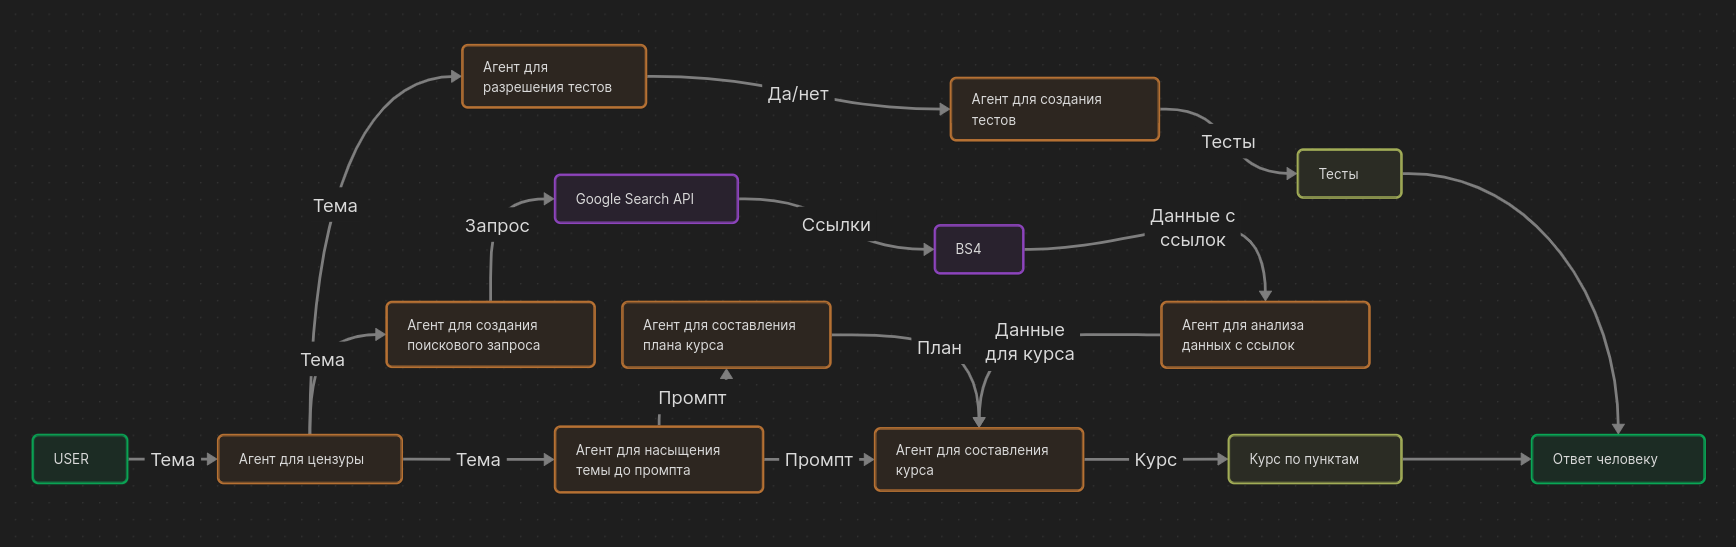
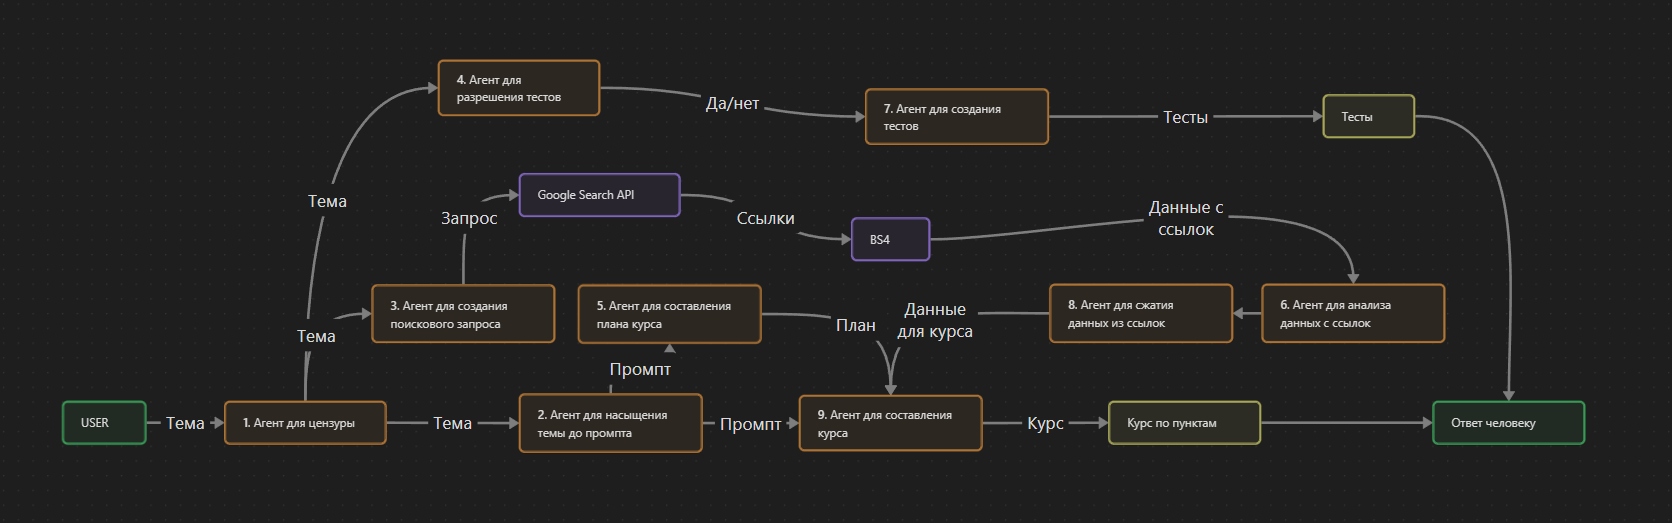
Поменял Readme.md + app.ai_core + чуток поменял роуты

diff --git a/app/ai_core/censor_agent.py b/app/ai_core/censor_agent.py
@@ -1,11 +1,12 @@
 from app.mistral_ai_initializer import mistral_ai_initializer
 
 
-def censor(theme_from_user: str) -> str:
+def censor(theme_from_user: str, desires: str = None) -> str:
     """Функция для цензуры темы пользователя.
 
     Args:
         theme_from_user (str): Тема пользователя
+        desires (str, optional): Пожелания пользователя. Defaults to None.
 
     Returns:
         str: Dict в виде str {"data": True/False(с темой хорошо/плохо)}
@@ -20,10 +21,13 @@ def censor(theme_from_user: str) -> str:
         "data": False
     }
     """
-    prompt = f"""Привет! Ты агент-цензор. Твоя задача проверять тему пользователя. Тема должна быть не должна быть
+    prompt = f"""Привет! Ты агент-цензор. Твоя задача проверять тему пользователя и его пожелания. Тема и пожелания не
+    должны быть
     связана с 18+ контентом, правительством, религией, межнациональной рознью, опасными для жизни
-    человека действиями, химикатами и т.п. Если тема никак не связана с перечисленным, то ты пропускаешь ее далее,
-    иначе - не пропускаешь. Тема пользователя: {theme_from_user} Пример твоего ответа: {json_example}"""
+    человека действиями, химикатами и т.п. Если тема и пожелания никак не связана с перечисленным, то ты пропускаешь ее
+    далее,
+    иначе - не пропускаешь. Тема пользователя: {theme_from_user}. Пожелания пользователя: {desires} Пример твоего
+    ответа: {json_example}"""
     client = mistral_ai_initializer()
     response = client.message(
         messages=[

diff --git a/app/ai_core/prompt_by_theme_agent.py b/app/ai_core/prompt_by_theme_agent.py
@@ -1,21 +1,24 @@
 from app.mistral_ai_initializer import mistral_ai_initializer
 
 
-def cool_prompt(users_theme: str) -> str:
+def cool_prompt(users_theme: str, desires: str = None) -> str:
     """Функция для обогащения темы юзера до промпта
 
     Args:
         users_theme (str): Тема пользователя
+        desires (str, optional): Пожелания пользователя. Defaults to None.
 
     Returns:
         str: Промпт
     """
     prompt = f"""Привет! Ты составитель промптов для LLM. Промпт нужно составить с учетом на то, что LLM будет создавать
-    курсы для обучения по заданной тебе теме. Твоя задача по теме, которую тебе говорит пользователь, составить промпт
+    курсы для обучения по заданной тебе теме. Твоя задача по теме и пожеланиям, которые тебе говорит пользователь,
+    составить промпт
     и только промпт. Не создавай плана(нумераций), пояснений, примеров в этой сфере и т.п. Обязательно в промпте укажи
     роль для LLM в
     зависимости от темы. Ни в коем случае не назначай практические задания! Этим занимается другой агент.
-    Тема пользователя: {users_theme}. Не используй md в своем ответе, ты пишешь для LLM."""
+    Тема пользователя: {users_theme}. Пожелания пользователя: {desires} Не используй md в своем ответе, ты пишешь для
+    LLM."""
     client = mistral_ai_initializer()
     result = client.message(
         messages=[

diff --git a/app/ai_core/analyzer_agent.py b/app/ai_core/analyzer_agent.py
@@ -1,0 +1,40 @@
+import json
+
+from app.mistral_ai_initializer import mistral_ai_initializer
+
+
+def analyze(data_from_internet: str, theme_of_course: str, plan: list) -> dict:
+    """Функция для анализа данных из интернета на нужность по плану.
+
+    Args:
+        data_from_internet (str): Данные, желательно из одной статьи
+        theme_of_course (str): Тема курса
+        plan (list): План курса
+
+    Returns:
+        dict: {"data_is_useful": True/False}
+    """
+    json_example = """
+    {
+        "data_is_useful": True/False # в зависимости от твоего решения(True, если полезна, False - иначе)
+    }
+    """
+    prompt = f"""Привет! Ты - агент для проверки нужности статьи для применения в создании курса по плану.
+    Твоя задача посмотреть, есть ли пункты плана, где пригодятся данные из статьи. План курса: {plan}.
+    Тема курса: {theme_of_course}. Статья: {data_from_internet}. Твоя задача вернуть мне в ответ json.
+    Пример с каждым случаем: {json_example}
+    """
+    client = mistral_ai_initializer()
+    response = client.message(
+        messages=[
+            {
+                "role": "user",
+                "content": prompt,
+            }
+        ],
+        temperature=0,
+        response_format={
+            "type": "json_object",
+        },
+    )
+    return json.loads(response)

diff --git a/app/ai_couch/routes.py b/app/ai_couch/routes.py
@@ -21,7 +21,7 @@ ai_couch = Blueprint(
     ],
 )
 def index():
-    return render_template("index.html", title="Kairos")
+    return render_template("index.html", title="Kairos - Главная")
 
 
 @ai_couch.route(
@@ -35,6 +35,7 @@ def create_course():
     users_theme = dict(request.form.items())["users_theme"]
     print(users_theme)
     is_theme_are_good = json.loads(censor(theme_from_user=users_theme))["data"]
+    print(is_theme_are_good)
     time.sleep(1)
     message = (
         "Тема не прошла валидацию! Попробуйте сменить тему!"
@@ -43,7 +44,9 @@ def create_course():
     )
     if message:
         print(message)
-        return render_template("index.html", message=message, title="Главная")
+        return render_template(
+            "index.html", message=message, title="Kairos - Главная"
+        )
     else:
         prompt_from_llm = cool_prompt(users_theme=users_theme)
         time.sleep(1)

diff --git a/app/ai_core/summarizer_agent.py b/app/ai_core/summarizer_agent.py
@@ -1,0 +1,26 @@
+from app.mistral_ai_initializer import mistral_ai_initializer
+
+
+def summarizer(text: str, theme_of_course: str) -> str:
+    """Функция для сжатия статей
+
+    Args:
+        text (str): Сама статья
+        theme_of_course (str): Тема курса
+
+    Returns:
+        str: Сжатая статья
+    """
+    prompt = f"""Ты суммаризатор. Твоя задача сжать текст с учетом темы. То есть, тебе нужно оставить только то, что
+    может пригодится по теме. Текст для сжатия: {text}. Тема: {theme_of_course}."""
+    client = mistral_ai_initializer()
+    response = client.message(
+        messages=[
+            {
+                "role": "user",
+                "content": prompt,
+            }
+        ],
+        temperature=0.2,
+    )
+    return response

diff --git a/app/ai_core/theory_generator_agent.py b/app/ai_core/theory_generator_agent.py
@@ -2,6 +2,17 @@ from app.mistral_ai_initializer import mistral_ai_initializer
 
 
 def get_theory(prompt_from_prompt_agent: str, plan: str, theory: str) -> str:
+    """Функция для генерации итогового результата.
+
+    Args:
+        prompt_from_prompt_agent (str): Промпт, по которому нужно сделать курс.
+        plan (str): План курса.
+        theory (str): Теория, которая должна быть обязательно включена в курс.
+
+    Returns:
+        str: Итоговый курс.
+
+    """
     client = mistral_ai_initializer()
     prompt = f"""{prompt_from_prompt_agent}.
     План - шаблон: {plan}. Тебе решать, использовать план - шаблон, или нет.

diff --git a/app/ai_core/parser_agent.py b/app/ai_core/parser_agent.py
@@ -2,6 +2,15 @@ from app.mistral_ai_initializer import mistral_ai_initializer
 
 
 def parser(prompt_from_llm: str) -> str:
+    """Функция для создания поискового запроса
+
+    Args:
+        prompt_from_llm (str): Промпт, по которому нужно составить поисковый запрос
+
+    Returns:
+        str: Поисковый запрос.
+
+    """
     request_example = """
     html_of_site = requests.get("https://ru.wikipedia.org/wiki/Python").text
     soup = BeautifulSoup(html_of_site, "html.parser")

diff --git a/app/ai_core/__init__.py b/app/ai_core/__init__.py
@@ -1,7 +1,8 @@
-from .parser_agent import parser
-from .plan_by_prompt import plan
-from .prompt_by_theme import cool_prompt
-from .theory_generator import get_theory
-from .searcher_agent import searcher
+from .analyzer_agent import analyze
 from .censor_agent import censor
-from .link_validate_agent import link_validate
+from .parser_agent import parser
+from .plan_by_prompt_agent import plan
+from .prompt_by_theme_agent import cool_prompt
+from .searcher_agent import searcher
+from .summarizer_agent import summarizer
+from .theory_generator_agent import get_theory

diff --git a/app/mistral_ai_initializer/mistral_custom_class.py b/app/mistral_ai_initializer/mistral_custom_class.py
@@ -2,6 +2,7 @@ from mistralai import Mistral
 
 
 class ModifiedMistral(Mistral):
+    """Создал кастомный класс для того, чтобы по вызову одной функции взаимодействовать с llm."""
 
     def message(
         self,

diff --git a/README.md b/README.md
@@ -1,12 +1,12 @@
 # Kairos -
 
-Простой проект для создания индивидуального плана обучения с помощью ИИ.
+Простой проект для создания индивидуального плана обучения с помощью ИИ. Упор идет на то, что данные будут парситься из СТАТЕЙ.(Это прописано в большинстве промптов)
 
 ## Required credentials
 
 ### 1. Google Custom Search API
 
-Начнем с поиска данных в интернете. Для работы поиска нам понадобится CSE id и Google Search API Key. [Инструкция](https://developers.google.com/custom-search/v1/overview?hl=ru) по получению. При создании API ключа стоит учитывать, что вы можете указать список сайтов, которые будут парсится при API, что делает поиск более конкретным, узконаправленным и специфичным.
+Начнем с поиска данных в интернете. Для работы поиска нам понадобится CSE id и Google Search API Key. [Инструкция](https://developers.google.com/custom-search/v1/overview?hl=ru) по получению. При создании API ключа стоит учитывать, что вы можете указать список сайтов, которые будут парсится при API, что делает поиск более конкретным, узконаправленным и специфичным. Создать поисковый сервис в Google [тут](https://programmablesearchengine.google.com/controlpanel/all).
 
 ### 2. Mistral AI API
 
@@ -14,7 +14,7 @@
 
 ## Пример .env-файла
 
-.env-файл должен лежать в корне.
+.env-файл должен лежать в корне проекта.
 
 ```bash
 MISTRAL_AI_API_KEY=your-data
@@ -22,6 +22,32 @@ GOOGLE_API_KEY=your-data
 CSE_ID=your-data
 ```
 
-## Логика приложения со стороны агентов
+## Интересные факты
+
+### 1. [app.mistral_ai_initializer.mistral_custom_class](./app/mistral_ai_initializer/mistral_custom_class.py)
+
+Это кастомный класс **Mistral**. Был он создан для того, чтобы убрать лишнюю рутинную работу. Подробнее - [тут](./app/mistral_ai_initializer/mistral_custom_class.py)
+
+### 2. [app.ai_core](./app/ai_core/)
+
+Директория с основным функционалом и взаимодействиями с ИИ. Возможно, сделаю нумерацию или табличку для удобной навигации, но это неточно. Представлено 9 агентов.
+
+|В [схеме](#схема-логики-приложения-со-стороны-агентов)|Файл|Назначение агента|
+| --- | --- | --- |
+|[1]|[app.ai_core.censor_agent](./app/ai_core/censor_agent.py)|Агент для цензуры темы пользователя.|
+|[2]|[app.ai_core.prompt_by_theme_agent](./app/ai_core/prompt_by_theme_agent.py)|Агент для обогащения темы пользователя до промпта для llm.|
+|[3]|[app.ai_core.searcher_agent](./app/ai_core/searcher_agent.py)|Агент для составления поискового запроса по промпту.|
+|[4]|[app.ai_core.check_need_test](./app/ai_core/check_need_test.py)|Агент для проверки нужности тестов в курсе.|
+|[5]|[app.ai_core.plan_by_prompt_agent](./app/ai_core/plan_by_prompt_agent.py)|Агент для составления плана курса по промпту от llm.|
+|[6]|[app.ai_core.analyzer_agent](./app/ai_core/analyzer_agent.py)|Агент для анализа данных из интернета на нужность по плану.|
+|[7]|[app.ai_core.test_maker](./app/ai_core/test_maker_agent.py)|Агент для создания тестов для курсов.|
+|[8]|[app.ai_core.summarizer_agent](./app/ai_core/summarizer_agent.py)|Агент для сжатия статей из интернета.|
+|[9]|[app.ai_core.theory_generator_agent](./app/ai_core/theory_generator_agent.py)|Агент для генерации итогового результата.|
+
+### 3. [app.google_custom_search.search_function](./app/google_custom_search/search_function.py)
+
+Функция для поиска в Google Custom Search. Подробнее [тут](#1-google-custom-search-api)
+
+## Схема логики приложения со стороны агентов
 
 ![Логика](logic.png)
